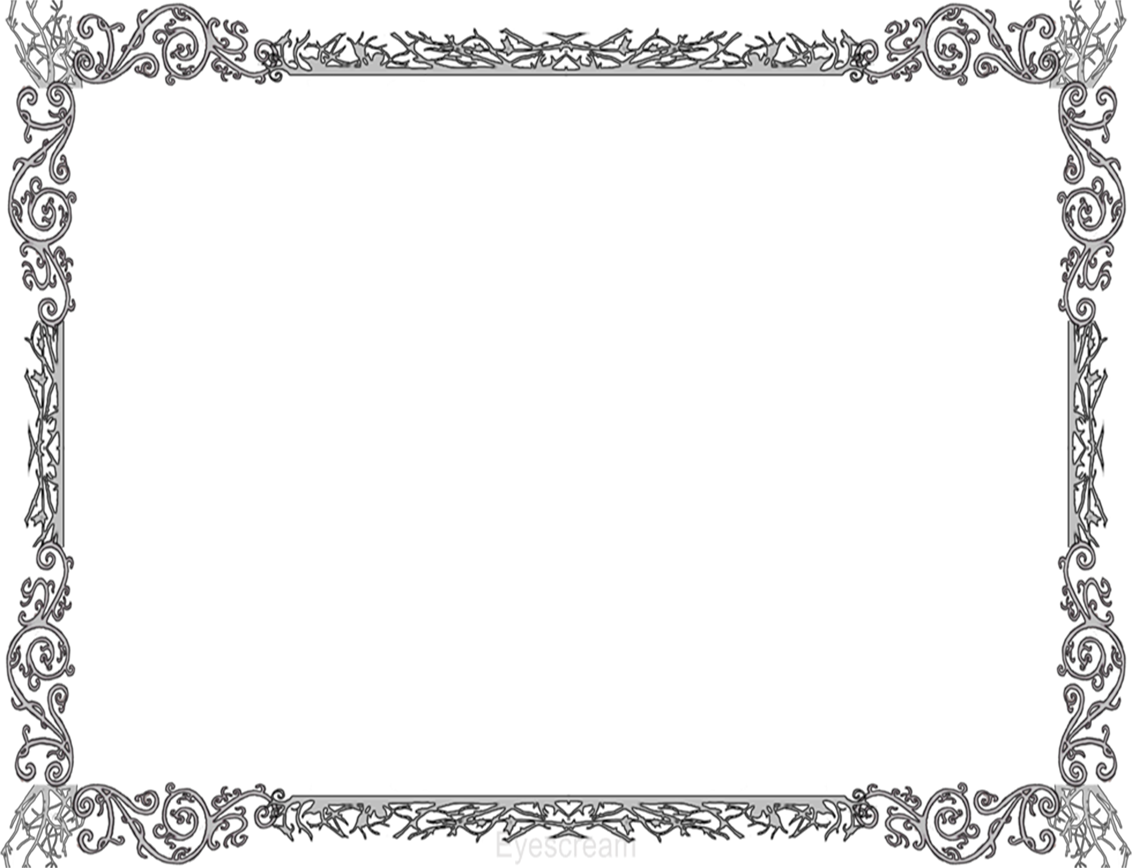
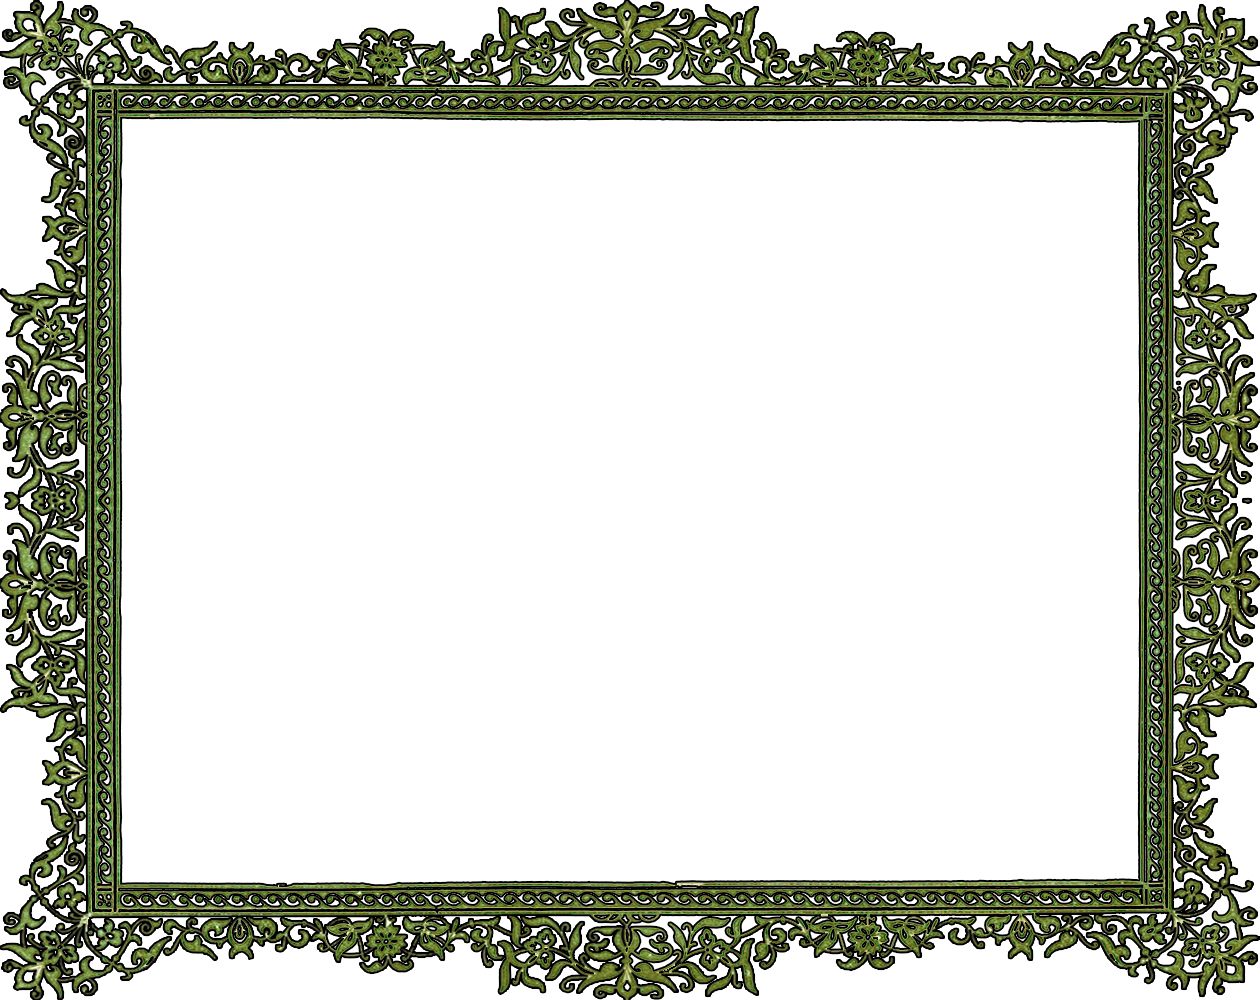
Sick border added

diff --git a/Css/StyleSheet.css b/Css/StyleSheet.css
@@ -3,19 +3,20 @@ body {
 }
 
 #borderDiv{
-	width: 1132px;
-	height: 810px;
+	width: 1260px;
+	height: 880px;
 	background-image:url(../source/mainBorder.png);
 	margin-left: auto;
 	margin-right: auto;
-	padding-top:50px;
+	padding-top:120px;
 }
 
 #main{
+
 	width: 1024px;
 	height: 768px;
-	border: 5px solid grey;
-	margin-left: 54px;
+/*	border: 5px solid grey; */
+	margin-left: 120px;
 }
 #canvasDiv{
 	width: 1020px;

diff --git a/index.html b/index.html
@@ -57,7 +57,7 @@
         <div id="inventory"> </div>
 
     </div>
-</div>  
+    </div> 
 </body>
 
 </html>
